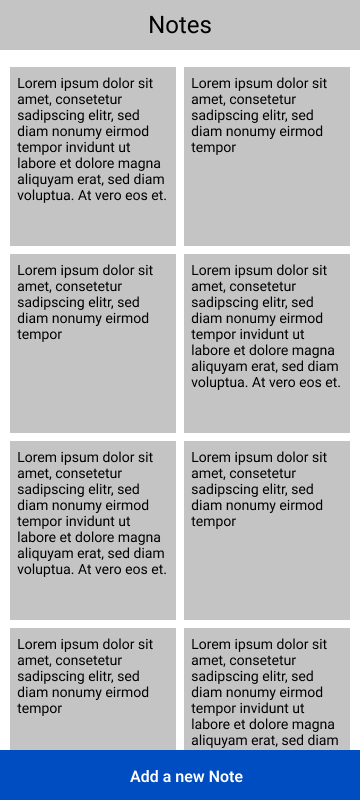
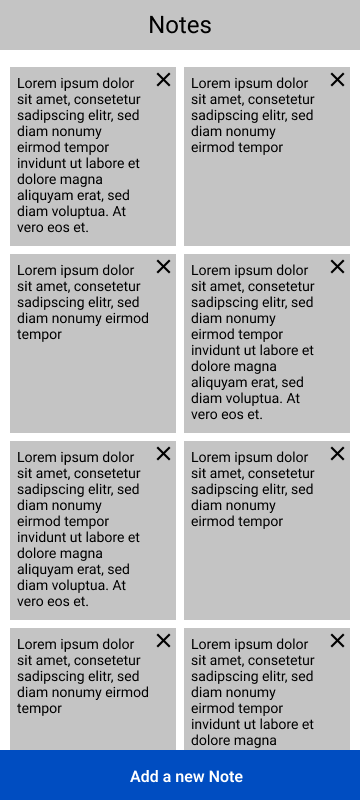
Add Bonus exercise, update main image

diff --git a/README.md b/README.md
@@ -16,6 +16,10 @@ To solve this problem we want to create an app to take notes.
 * Persist notes
 * Load persisted notes at the start of the app
 
+### Bonus
+
+* Modify existing notes
+
 ## Hints
 
 * Start with an activity, which has a fragment-holder to show the different fragments
